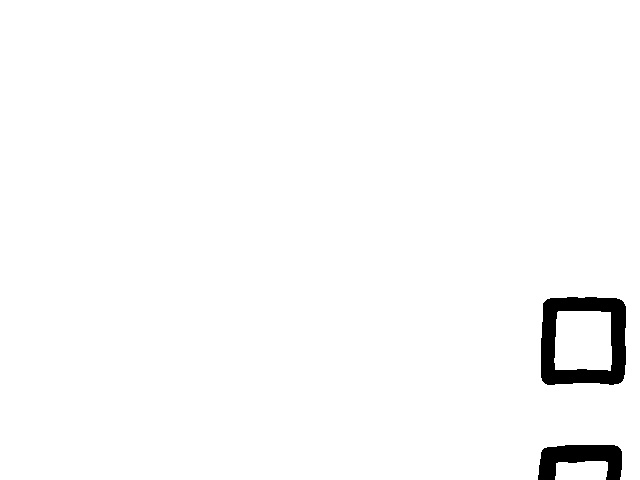
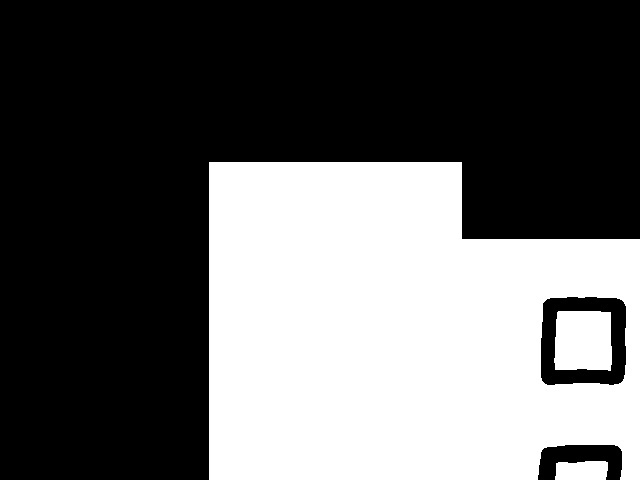
robot tracking reliable & smoothed

diff --git a/computer-vision/robot.py b/computer-vision/robot.py
@@ -1,4 +1,6 @@
 from global_stuff import *
+from arena import *
+pt = Point
 
 HUE_NORMALISE = 179.0/360.0
 
@@ -16,12 +18,116 @@ PURPLE = np.array([250, 290])
 RED1 = np.array([0, 20])
 RED2 = np.array([340, 360])
 
-DS_RATIO = 1
 
+
+
+class Robot():
+
+    def __init__(self):
+        self.w_m = 0.19
+        self.h_m = 0.15
+        self.dims = np.array([self.h_m, self.w_m])
+
+        self.origin_history = []
+        self.axes_history = []
+        self.timestamps = []
+
+    def draw_coord_sys(self, img):
+
+        est = self.get_pos_estimate()
+
+        if est is None:
+            return img
+        
+        origin, axes = est
+
+        # x cyan, y yellow, magenta origin
+        img = draw_line_from_params(img, origin, axes[0], (255, 255, 0)) 
+        img = draw_line_from_params(img, origin, axes[1], (0, 255, 255))
+        
+        cv2_cross(img, pt(idx=origin).idx, 3, (255, 0, 255), 2)
+
+
+        # mpl_show(robot_img)
+        if not USE_VIDEO:
+            mpl_show(img)
+
+        return img
+
+
+    def get_pos_estimate(self):
+
+        if len(self.origin_history) < 2:
+            return None
+
+        # punish records which were a long time ago
+        weights = np.exp(8.0*(np.array(self.timestamps) - self.timestamps[-1]))      
+        print(weights)
+
+        def weighted_ave(arr):
+            return sum([weights[i] * arr[i] for i in range(len(weights))])/sum(weights)
+    
+        # print(self.origin_history)
+        return weighted_ave(self.origin_history), weighted_ave(self.axes_history)
+
+
+    def record_pos(self, origin, axes):
+
+        ts = time.time()
+        outrageous_speed = 0.4 # m/s
+
+        est = self.get_pos_estimate()
+
+        if est is None:
+            # print("pos history", self.origin_history)
+            # print("recording at", origin, axes)
+
+            self.origin_history.append(origin)
+            self.axes_history.append(axes)
+            self.timestamps.append(ts)
+        
+        else:
+            distance = pythag(pt(idx=origin).pos - pt(idx=est[0]).pos)
+
+            if distance > 0.05 and distance / (ts - self.timestamps[0]) > outrageous_speed:
+                print("didn't record - moved too fast")
+                return
+
+            else:
+                # print("recording at", origin, axes)
+                self.origin_history.append(origin)
+                self.axes_history.append(axes)
+                self.timestamps.append(ts)
+
+        if len(self.origin_history) > 4:
+            del self.origin_history[0]
+            del self.axes_history[0]
+            del self.timestamps[0]
+
+
+    def update_pos(self, img):
+        img = cv2.bitwise_and(img, ROBOT_MASK)
+
+        res = detect_robot(img)
+
+        if res is None:
+            return img
+
+        origin, axes = res
+
+        # print("found at", origin, axes)
+
+        self.record_pos(origin, axes)
+
+
+    
+
+robot = Robot()
 
 
 SQRT2 = 2**0.5
 _1_SQRT2 = 1/SQRT2
+
 
 def get_line_params(contour):
     params = cv2.fitLine(contour, cv2.DIST_L2,0,0.01,0.01)
@@ -30,12 +136,20 @@ def get_line_params(contour):
     return params
 
 
-def draw_line_from_params(img, line_v, line_pt, colour):
+def draw_line_from_params(img, line_pt, line_v, colour):
     [vx, vy] = line_v
     [x, y] = line_pt
     rows,cols = img.shape[:2]
-    cv2_cross(img, (int(x + 30*vx), int(y + 30*vy)), 3, colour, 1)
-    return cv2.line(img, (int(x - 30*vx), int(y - 30*vy)), (int(x + 30*vx), int(y + 30*vy)), colour, 1)
+    cv2_cross(img, (int(x + 50*vx), int(y + 50*vy)), 3, colour, 1)
+    return cv2.line(img, (int(x), int(y)), (int(x + 50*vx), int(y + 50*vy)), colour, 1)
+
+
+def pythag(v):
+    return np.sqrt(np.dot(v, v))
+
+
+def norm(v):
+    return v / np.sqrt(np.dot(v, v))
 
 
 def find_intersect_coeffs(line_vs, line_pts):
@@ -56,8 +170,8 @@ def find_intersect_coeffs(line_vs, line_pts):
 # fit vectors which are 100% perpendicular (rather than roughly)
 def fit_orthog_vs(line_vs):
 
-    halfway = sum(line_vs)
-    halfway /= np.sqrt(np.dot(halfway, halfway))
+    halfway = norm(sum(line_vs))
+    
 
     # print("line_vs", line_vs)
     # print("halfway", halfway)
@@ -108,7 +222,7 @@ def detect_robot(img):
     robot_img = np.zeros_like(hsv)
     robot_img1 = np.zeros_like(hsv)
 
-    # cv2.drawContours(img, red_cs, -1, (0, 0, 255), -1)
+    cv2.drawContours(img, red_cs, -1, (0, 0, 255), -1)
 
 
 
@@ -165,22 +279,20 @@ def detect_robot(img):
 
     intersect_coords = (0.5 * (intersect_coords_1 + intersect_coords_2)).astype(int)
 
+
+    for pt in line_pts:
+        dist = pythag(pt - intersect_coords)
+        if dist > max(robot.dims/IDX_TO_COORD_SF):
+            print("too far to intersect")
+
+    
     # coordinate system now fully established
     # vector 0 is robot x, vector 1 is robot y
 
-    # x cyan, y yellow, magenta origin
-    img = draw_line_from_params(img, line_vs[0], line_pts[0], (255, 255, 0)) 
-    img = draw_line_from_params(img, line_vs[1], line_pts[1], (0, 255, 255))
-    cv2_cross(img, intersect_coords, 3, (255, 0, 255), 2)
-
-
     sw.stop(False)
 
-    # mpl_show(robot_img)
-    if not USE_VIDEO:
-        mpl_show(img)
+    return intersect_coords, line_vs
 
-    return img
 
 
     

diff --git a/computer-vision/main.py b/computer-vision/main.py
@@ -1,7 +1,7 @@
 from global_stuff import *
 
 import mines
-import robot
+from robot import robot
 import udpComms
 from arena import *
 pt = Point
@@ -137,12 +137,11 @@ if __name__ == "__main__":
 
                 # r_frame = cv2.resize(r_frame, tuple(RESOLUTION))
                 
-                r_frame = cv2.bitwise_and(r_frame, ROBOT_MASK)
 
-                res = robot.detect_robot(r_frame)
-
-                if res is not None:
-                    r_frame = res
+                robot.update_pos(r_frame)
+                
+                robot.draw_coord_sys(r_frame)
+                
 
                 to_show = illustrate(r_frame, mine_data)
 
@@ -168,7 +167,7 @@ if __name__ == "__main__":
         img = cv2.resize(img, tuple(RESOLUTION))
 
         if DO_ROBOT:
-            robot.detect_robot(img)
+            robot.update_pos(img)
 
 
         mine_data = []

diff --git a/computer-vision/global_stuff.py b/computer-vision/global_stuff.py
@@ -6,6 +6,7 @@ from skimage import exposure
 import time
 import socket
 import threading
+import math
 
 USE_VIDEO = True
 DO_MINES = False
